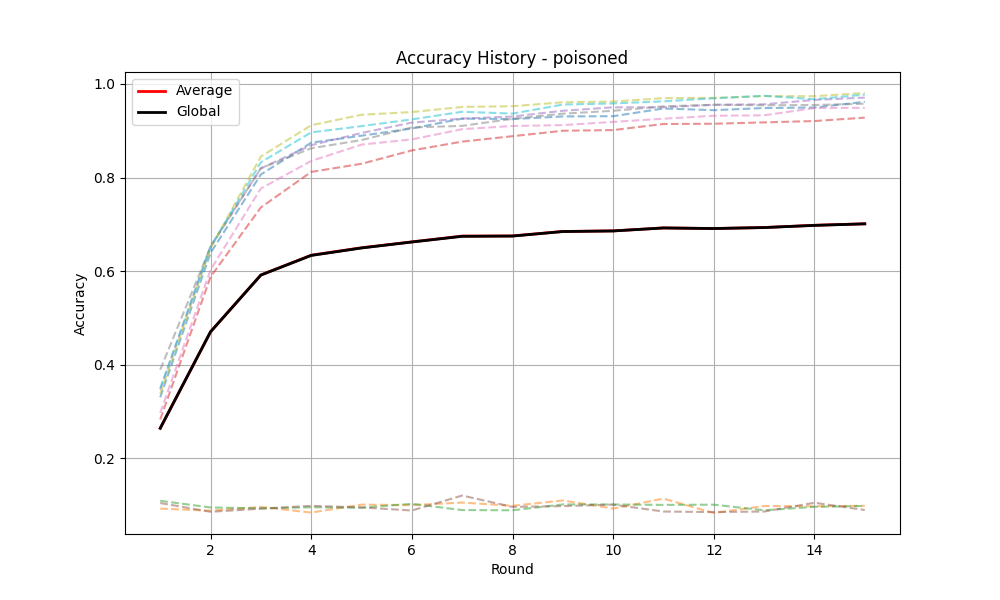
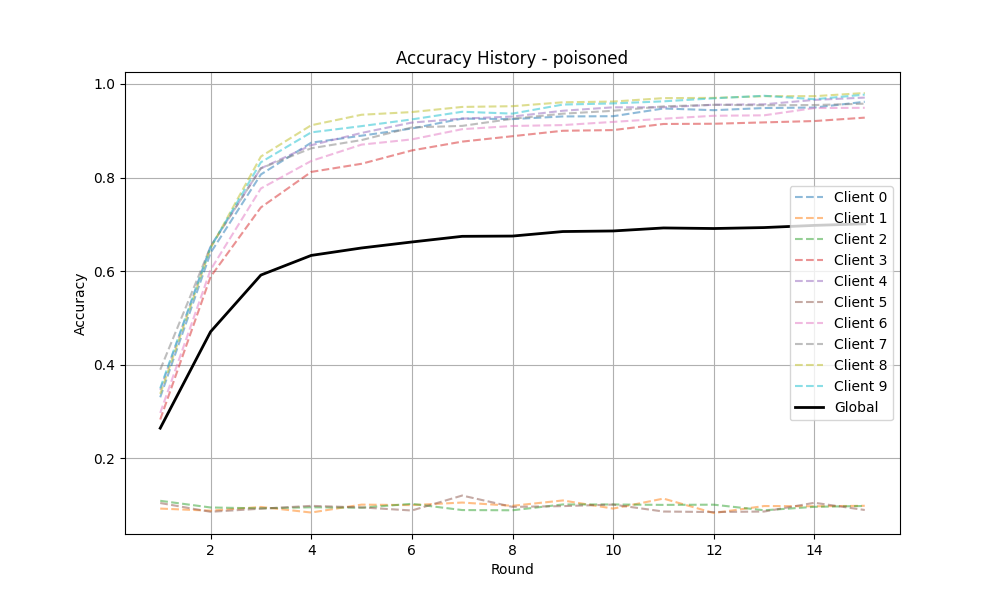
remove average plot in graph and added client num legend

diff --git a/src/visualize_results.py b/src/visualize_results.py
@@ -7,16 +7,11 @@ import os
 def plot_metric(metric, title, ylabel, folder):
     plt.figure(figsize=(10, 6))
     
-    client_dfs = []
     for file in os.listdir(folder):
         if file.startswith("client_") and file.endswith(".csv"):
+            client_num = file.split("_")[1]
             df = pd.read_csv(os.path.join(folder, file))
-            plt.plot(df["round"], df[metric], alpha=0.5, linestyle='--')
-            client_dfs.append(df)
-    
- 
-    avg_df = pd.concat(client_dfs).groupby("round").mean().reset_index()
-    plt.plot(avg_df["round"], avg_df[metric], label="Average", linewidth=2, color="red")
+            plt.plot(df["round"], df[metric], alpha=0.5, label=f"Client {client_num}", linestyle='--')
     
     global_file = glob.glob(os.path.join(folder, "global_metrics(*).csv"))[0]
     global_df = pd.read_csv(global_file)
